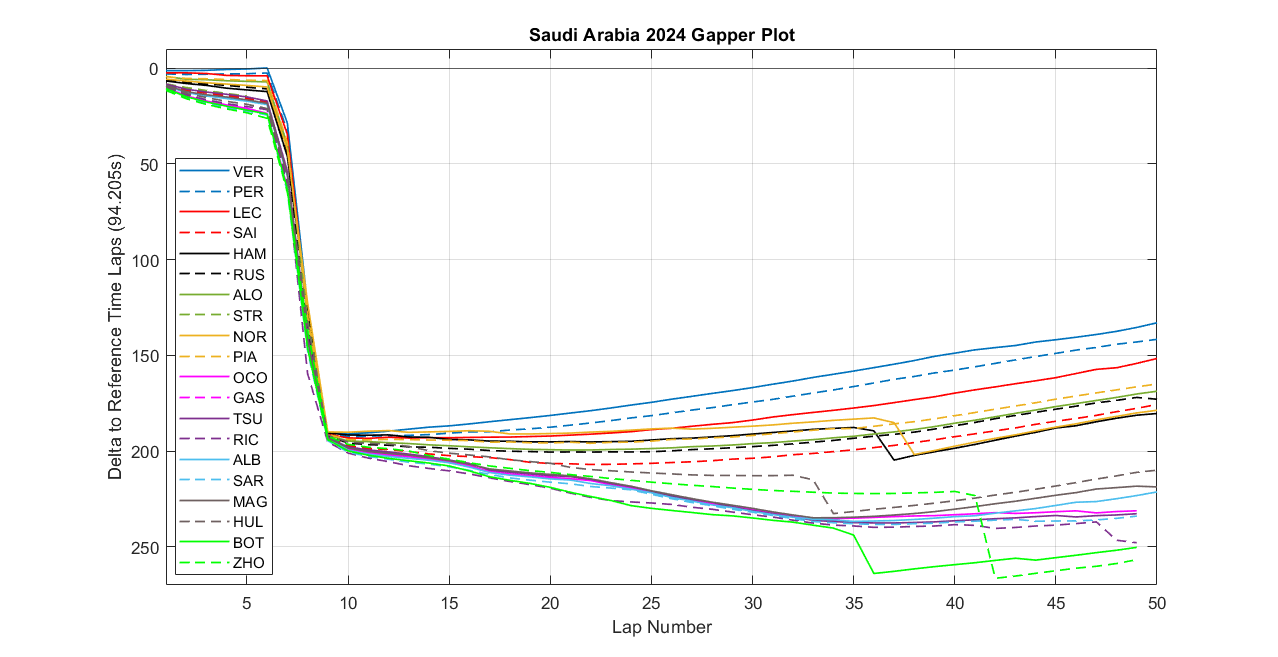
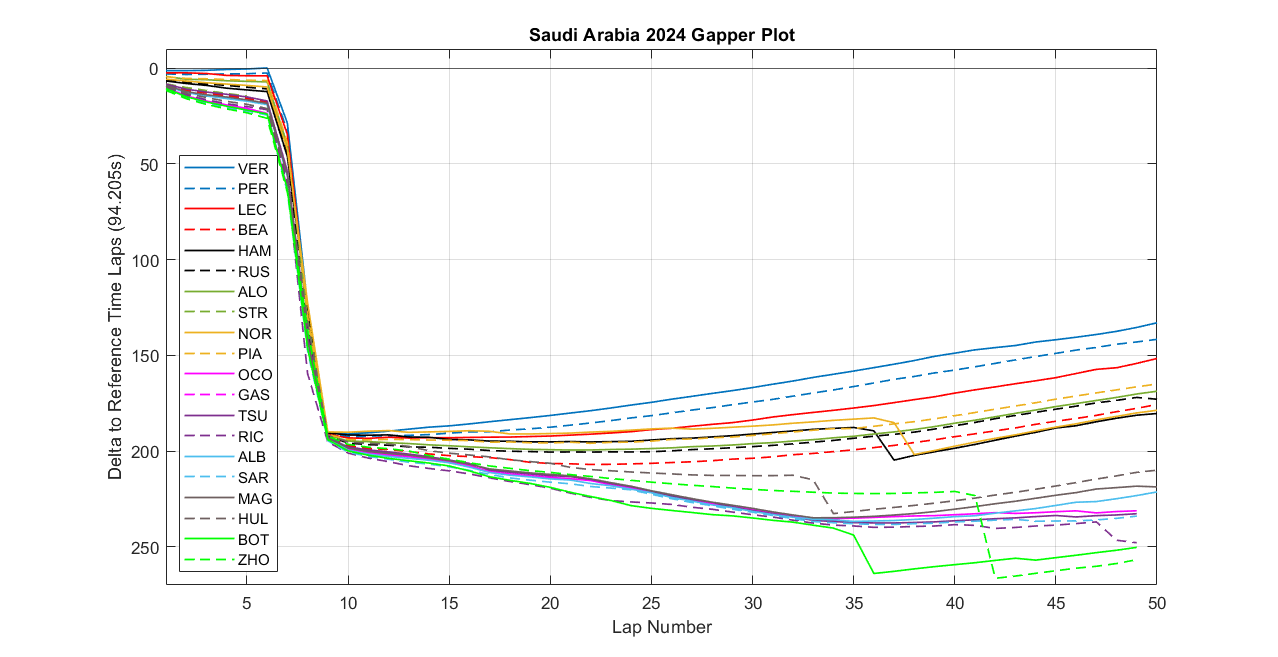
Corrects graph labels to BEA from SAI, adds README race summary.

Changed region(s): [[0.1221, 0.2131, 0.2136, 0.8828]]

diff --git a/Saudi_Arabia_2024_Gapper_Plot/README.md b/Saudi_Arabia_2024_Gapper_Plot/README.md
@@ -1,0 +1,21 @@
+# Saudi Arabia 2024 Gapper Plot Race Summary
+
+![Bahrain 2024 Gapper Plot](/Saudi_Arabia_2024_Gapper_Plot/SaudiArabia_2024_Gapper_Plot.png)
+
+## Early Safety Car
+
+- With the safety car coming out on lap 7 due to a mistake from Stroll, most of the grid chose to pit.
+
+- Only Norris and Hamilton remained on their starting Medium tyres in the front running group, bringing Norris to the lead on track.
+
+- The timing of the saftey car forced those who chose to pit to run for longer on the Hard compound tyre in their second stint than originally planned.
+
+## McLaren vs Hamilton
+
+- Piastri, having pitted under the safety car, caught up to Hamilton on lap 15, but was unable to pass due to lacking straight-line speed and DRS efficiency. Despite this, his finishing position was likely unaffected, since the pace of Lecelerc's Ferrari in third place is shown to be greater than what Piastri was ultimately able to manage when running in clear air.
+
+- With both Norris and Hamilton running equivalent strategies, for Norris to remain in front it was essential to match pace with Hamilton from laps 10-35, after which Hamilton chose to pit. McLaren responded immediately, pitting on the subsequent lap and managing to cover off the undercut at lap 38. From this stage to the finish, Norris was able to hold off Hamilton despite the lacking straight-line performance.
+
+## Haas Teamwork
+
+- With Magnussen earning 20 seconds worth of penalties, his chance of earning points was minimal. At this stage his race was sacrificed in aid of his teammate Hulkenberg, who was running in 10th and still required a pit stop before the finish. On lap 21 Magnussen begins holding up the group of cars behind in order to build a pit stop window for Hulkenberg. The sharp decline in pace for Magnussen and those behind can be seen bewteen laps 21 and 33, at which point Hulkenberg changes tyres and retains net track position.
